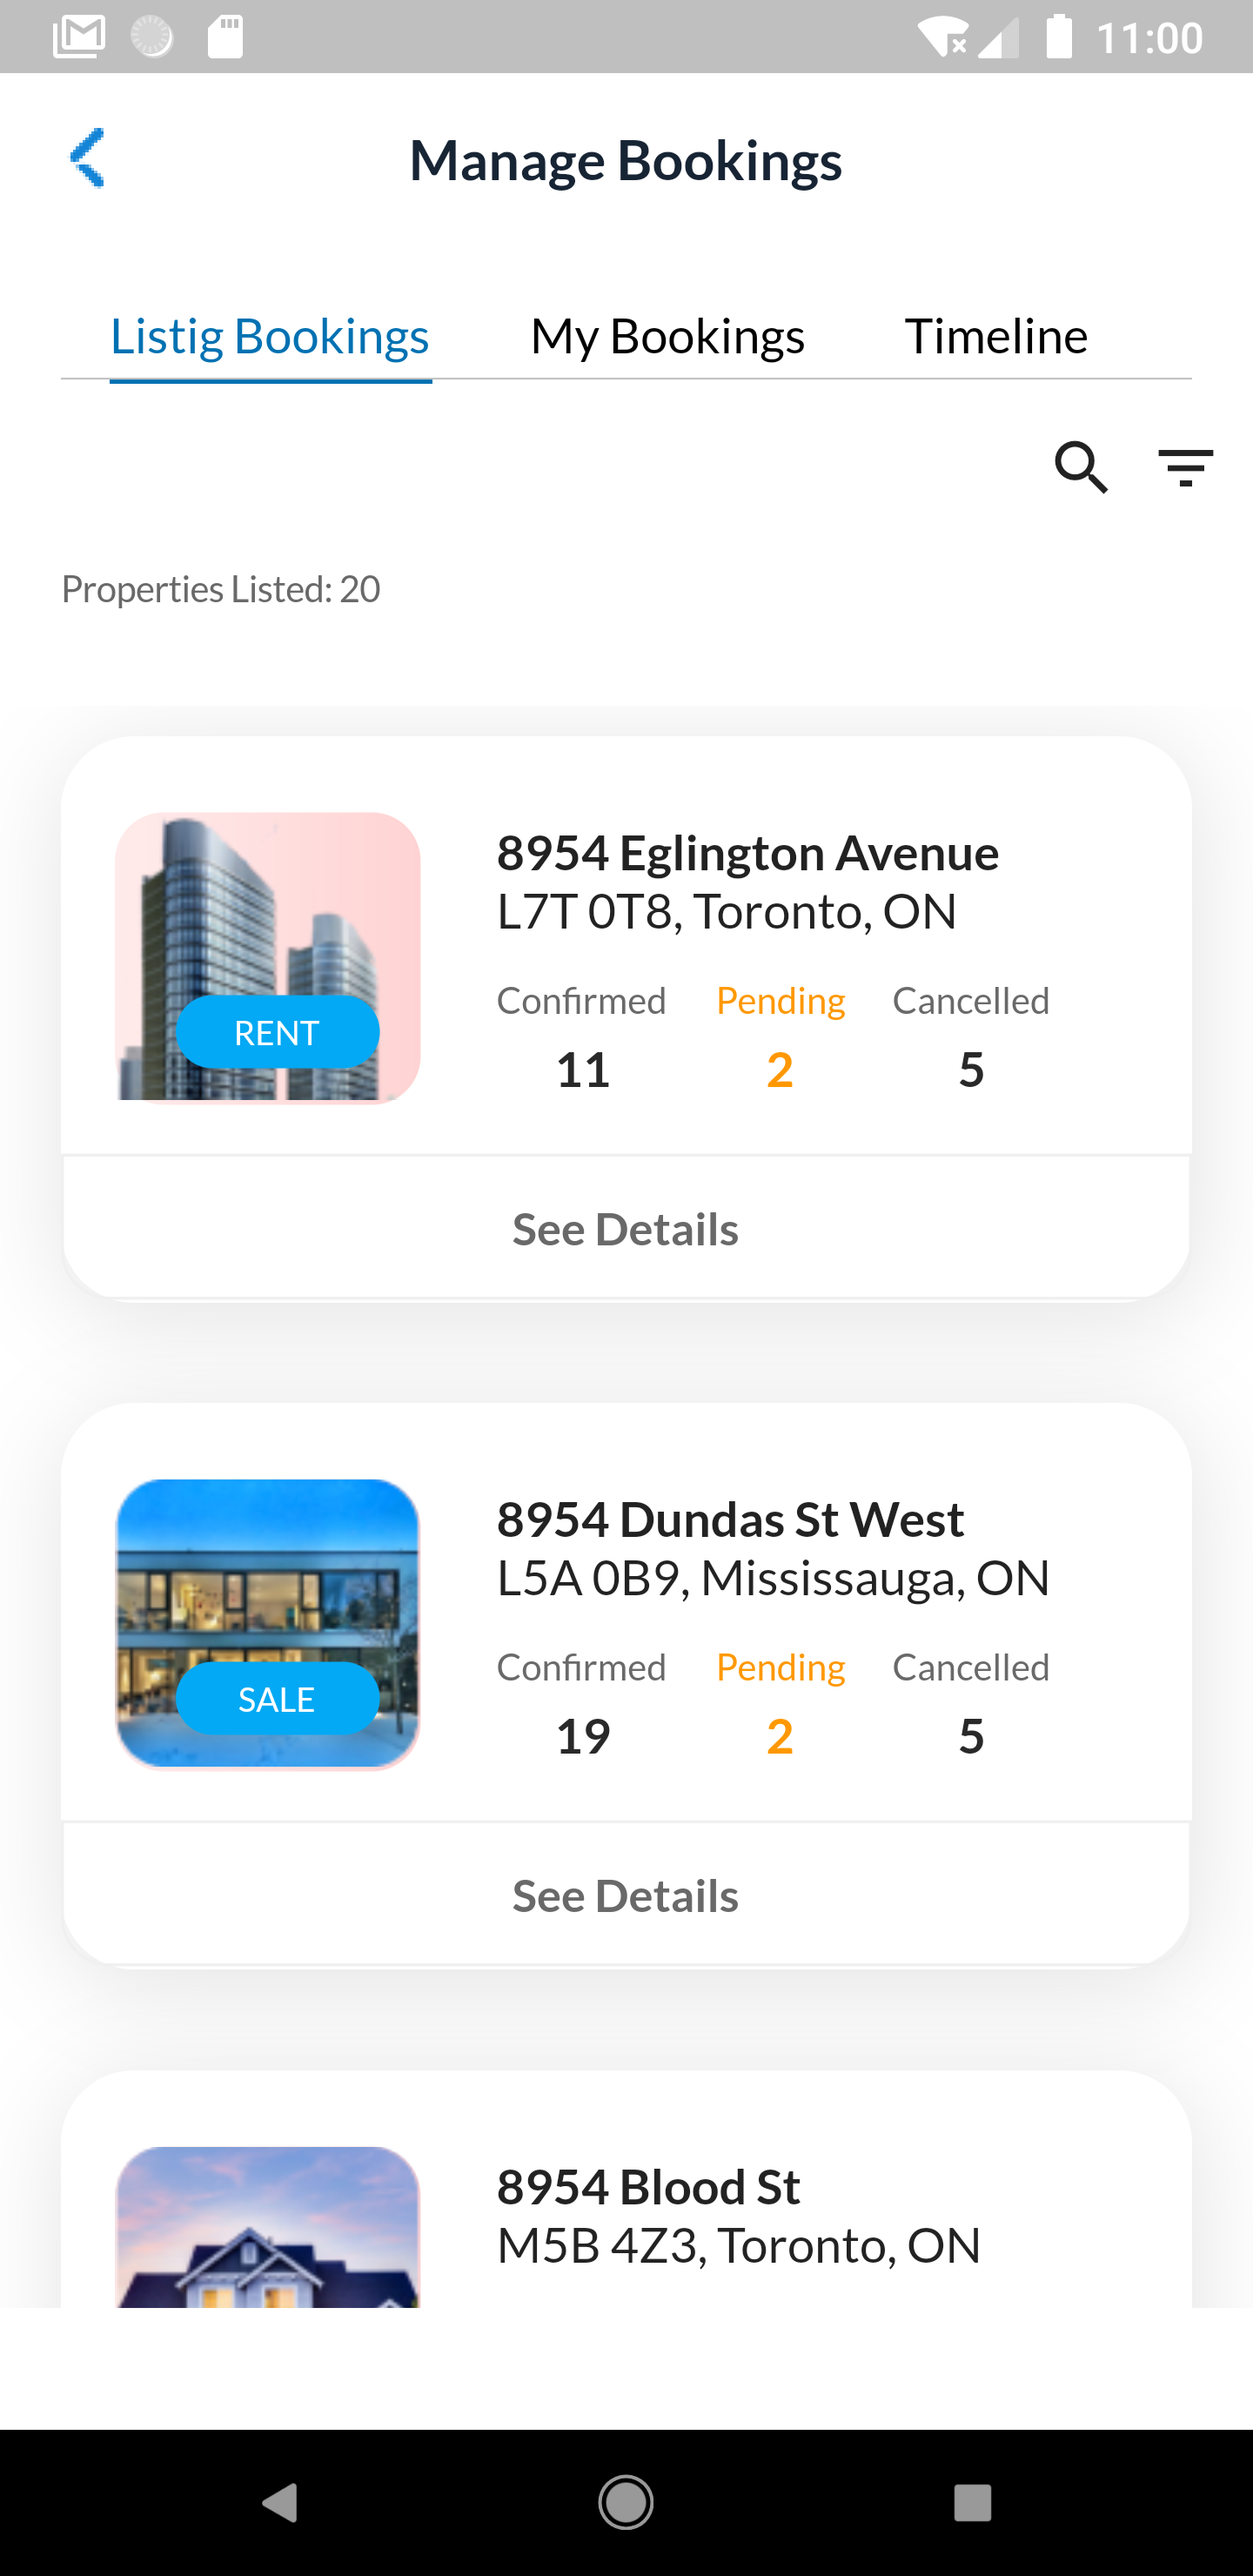
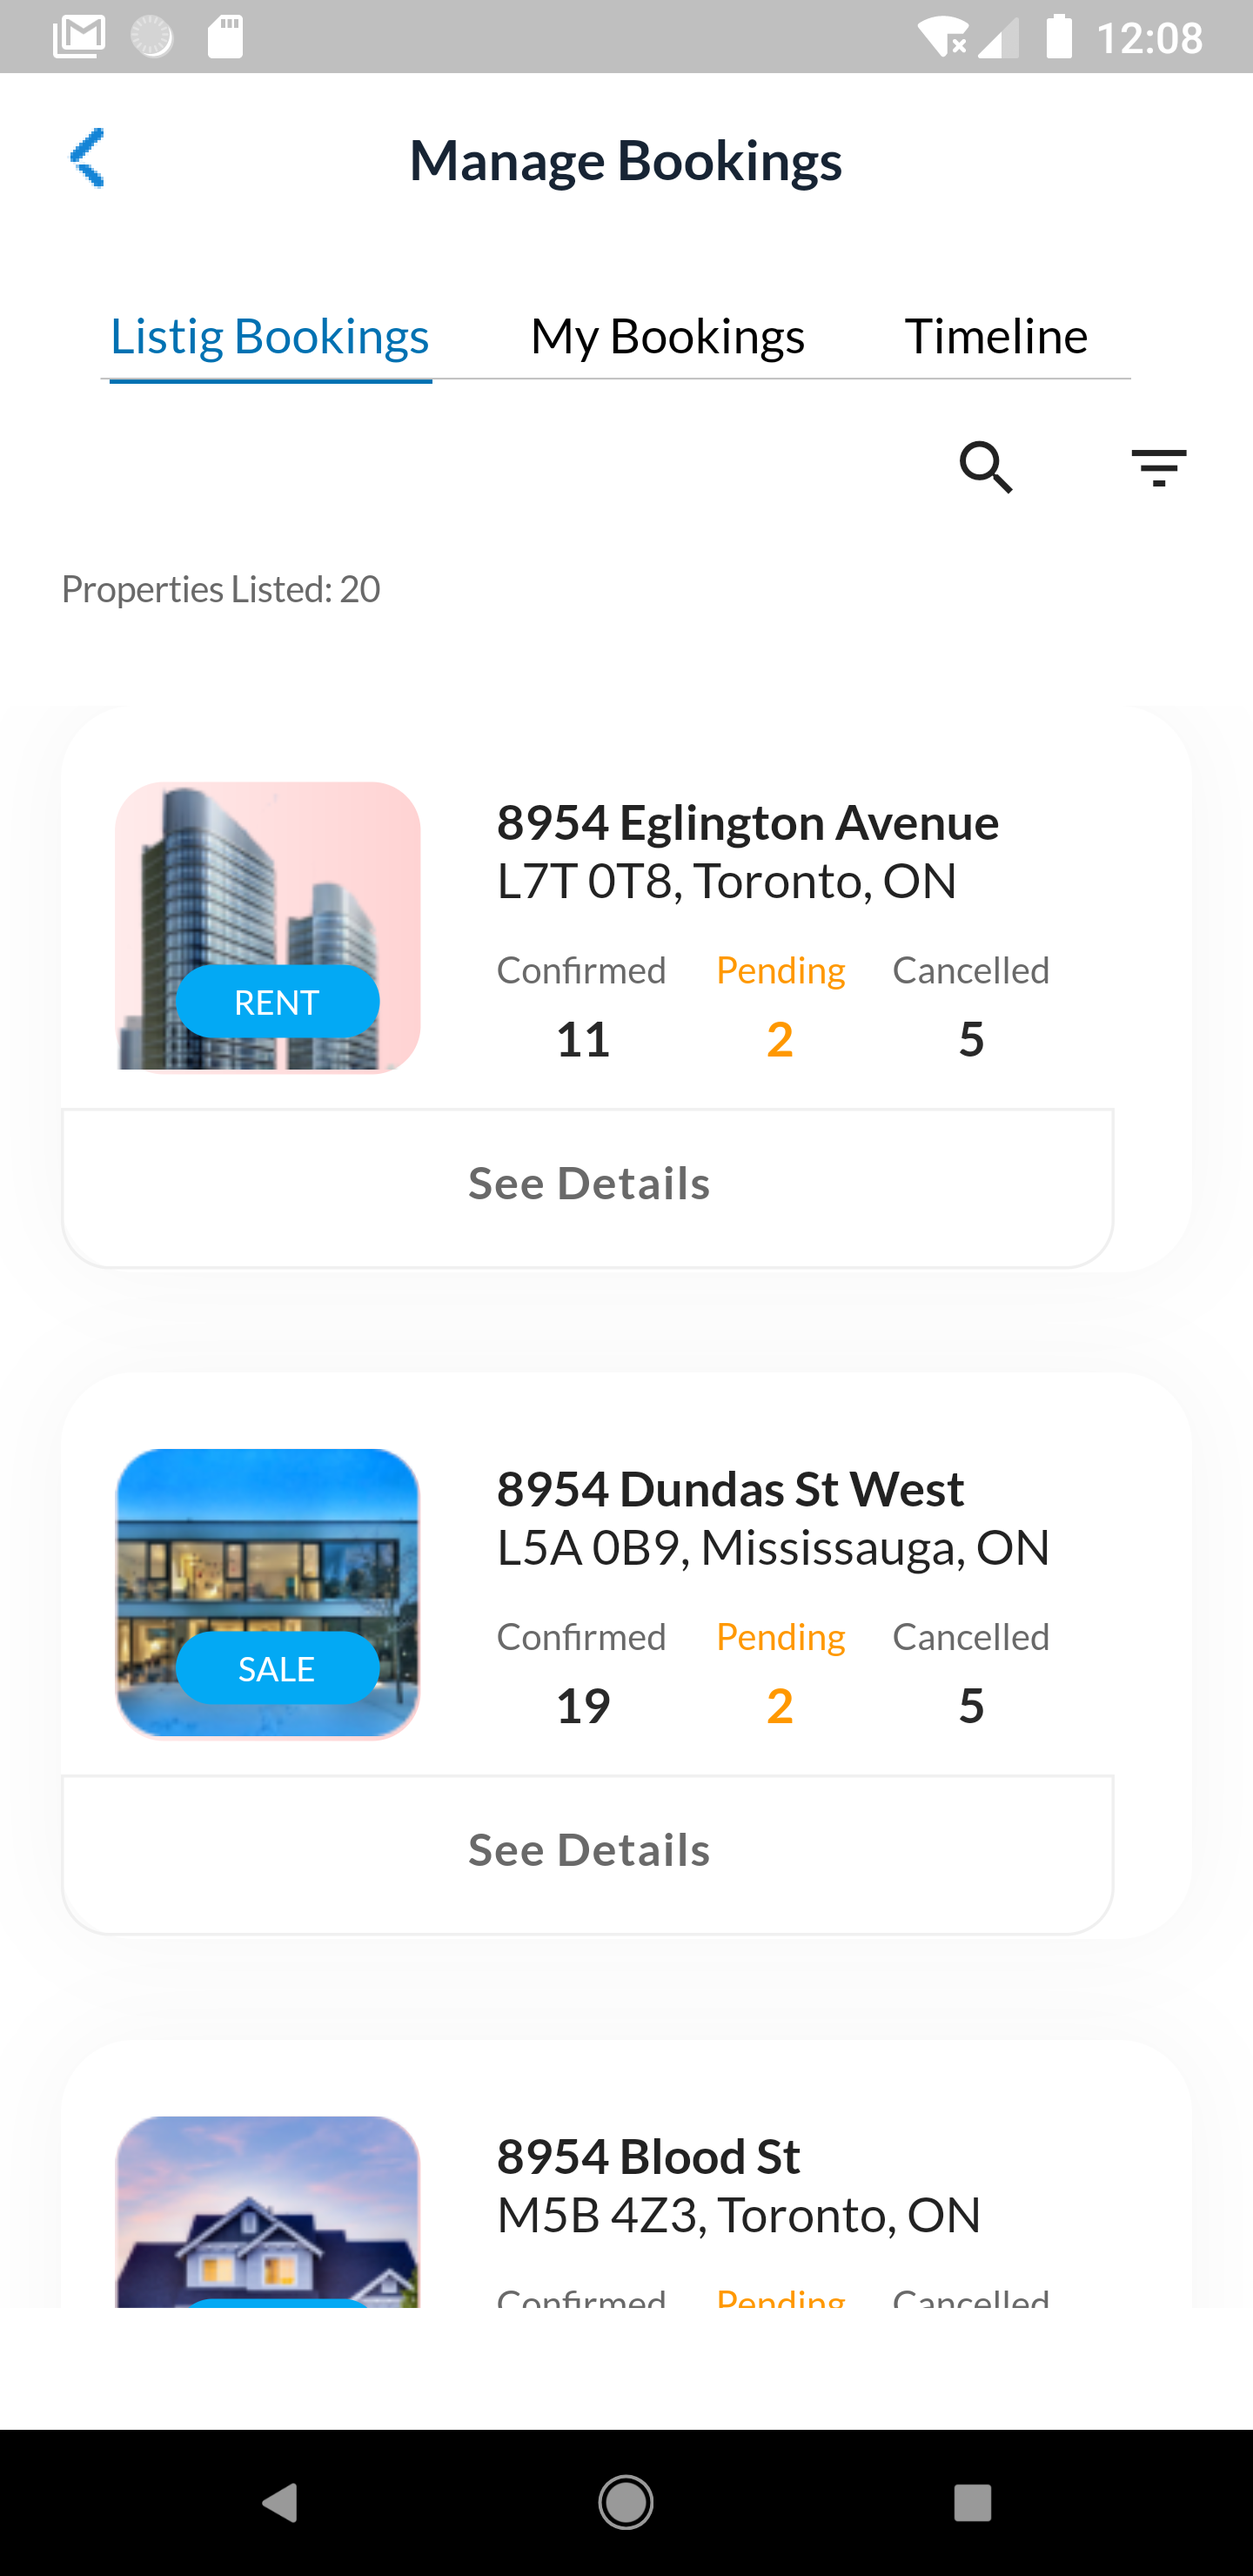
updated

diff --git a/bookings/lib/app/modules/home/views/card.dart b/bookings/lib/app/modules/home/views/card.dart
@@ -19,9 +19,9 @@ Widget homeCard(
           color: Colors.white,
           boxShadow: [
             BoxShadow(
-                color: Color(0xff9E9E9E).withOpacity(0.3),
+                color: Color(0xff9E9E9E).withOpacity(0.1),
                 blurRadius: 27.182,
-                offset: Offset(1, 4.5))
+                offset: Offset(0, 0))
           ],
           borderRadius: BorderRadius.circular(24)),
       child: Column(
@@ -156,24 +156,28 @@ Widget homeCard(
             ),
           ),
           SizedBox(
-            height: 16,
+            height: 11,
           ),
           Container(
-            height: 48,
+            height: 53,
             decoration: BoxDecoration(
                 borderRadius: BorderRadius.only(
                     bottomLeft: Radius.circular(16),
                     bottomRight: Radius.circular(16)),
                 border: Border.all(
                     color: Color(0xffF0F0F0), style: BorderStyle.solid)),
-            child: Center(
+            child: Padding(
+                padding:
+                    EdgeInsets.only(top: 14, bottom: 15, left: 132, right: 131),
                 child: Text(
-              "See Details",
-              style: GoogleFonts.lato(
-                  color: Color(0xff696969),
-                  fontSize: 15,
-                  fontWeight: FontWeight.bold),
-            )),
+                  "See Details",
+                  textAlign: TextAlign.center,
+                  style: GoogleFonts.lato(
+                      color: Color(0xff696969),
+                      letterSpacing: 0.5,
+                      fontSize: 15,
+                      fontWeight: FontWeight.w700),
+                )),
           ),
         ],
       ),

diff --git a/bookings/lib/app/modules/home/views/home_view.dart b/bookings/lib/app/modules/home/views/home_view.dart
@@ -45,7 +45,7 @@ class HomeView extends GetView<HomeController> {
               ]),
             ),
             Padding(
-              padding: EdgeInsets.only(left: 20, right: 20),
+              padding: EdgeInsets.only(left: 33, right: 40),
               child: Container(
                 // Negative padding
 
@@ -112,11 +112,11 @@ class HomeView extends GetView<HomeController> {
                           },
                           child: Icon(Icons.search_outlined))),
                   SizedBox(
-                    width: 10,
+                    width: 32.5,
                   ),
                   Icon(Icons.filter_list_outlined),
                   SizedBox(
-                    width: 10,
+                    width: 18.8,
                   )
                 ],
               ),
@@ -142,9 +142,6 @@ class HomeView extends GetView<HomeController> {
                   ListView(
                     shrinkWrap: true,
                     children: [
-                      SizedBox(
-                        height: 10,
-                      ),
                       homeCard(
                           header: "8954 Eglington Avenue ",
                           details: "L7T 0T8, Toronto, ON",
